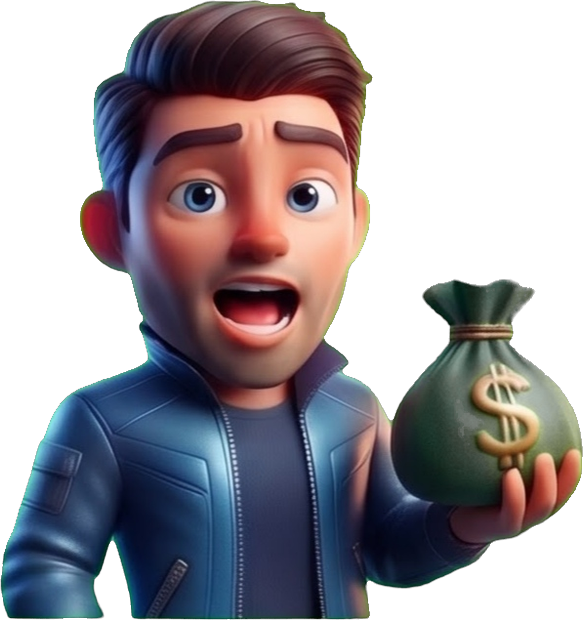
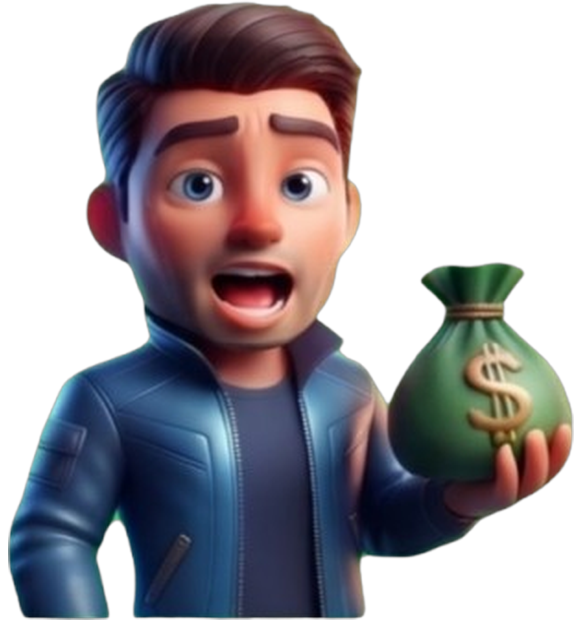
Dob: aligned open-mouth image, mouth now moves while he talks
Claude-Session: https://claude.ai/code/session_01D6YoS4ehfoUpqMXEpuzhPv

diff --git a/podcast/index.html b/podcast/index.html
@@ -86,7 +86,7 @@
       const name = { dob: "Dob", doli: "Doli" };
       const color = { dob: "#93c5fd", doli: "#fcd34d" };
       // "swap": open/closed mouth images alternate while talking. "bounce": the pair is not aligned, so only move.
-      const talkMode = { dob: "bounce", doli: "swap" };
+      const talkMode = { dob: "swap", doli: "swap" };
       const esc = (s) => s.replace(/&/g, "&amp;").replace(/</g, "&lt;");
 
       // One subtitle per line, shown from its start until the next line starts. Long lines get a smaller font.
